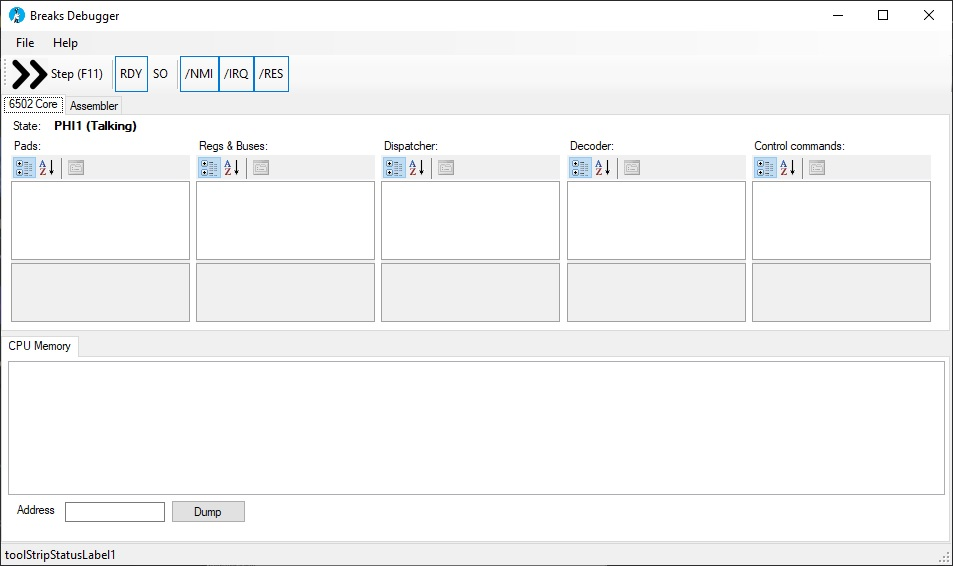
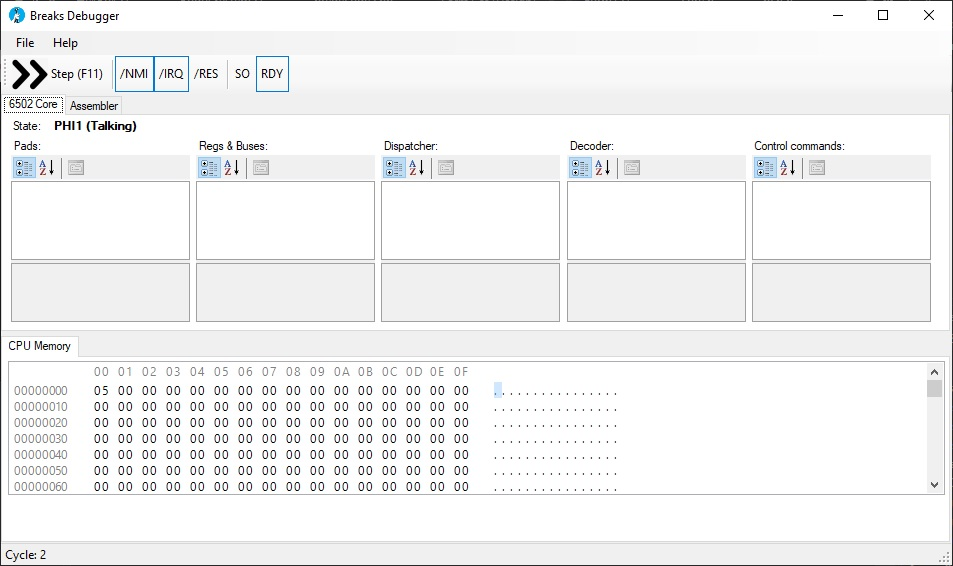
HexBox

diff --git a/Breaks6502/BreaksDebug/Form1.Designer.cs b/Breaks6502/BreaksDebug/Form1.Designer.cs
@@ -173,12 +173,12 @@ namespace BreaksDebug
             this.toolStrip1.Items.AddRange(new System.Windows.Forms.ToolStripItem[] {
             this.toolStripButton1,
             this.toolStripSeparator2,
-            this.toolStripButton2,
-            this.toolStripButton3,
-            this.toolStripSeparator3,
             this.toolStripButton4,
             this.toolStripButton5,
-            this.toolStripButton6});
+            this.toolStripButton6,
+            this.toolStripSeparator3,
+            this.toolStripButton3,
+            this.toolStripButton2});
             this.toolStrip1.Location = new System.Drawing.Point(0, 24);
             this.toolStrip1.Name = "toolStrip1";
             this.toolStrip1.Size = new System.Drawing.Size(951, 39);

diff --git a/Breaks6502/BreaksDebug/Form1.cs b/Breaks6502/BreaksDebug/Form1.cs
@@ -21,7 +21,6 @@ namespace BreaksDebug
         BogusSystem sys = new BogusSystem();
         byte[] sram = new byte[0x10000];
         IByteProvider memProvider;
-        long LastHexDumpAddress = 0;
 
         public Form1()
         {
@@ -35,7 +34,9 @@ namespace BreaksDebug
             sys.AttatchMemory(memProvider);
             UpdateAll();
 
+#if DEBUG
             AllocConsole();
+#endif
         }
 
         private void exitToolStripMenuItem_Click(object sender, EventArgs e)
